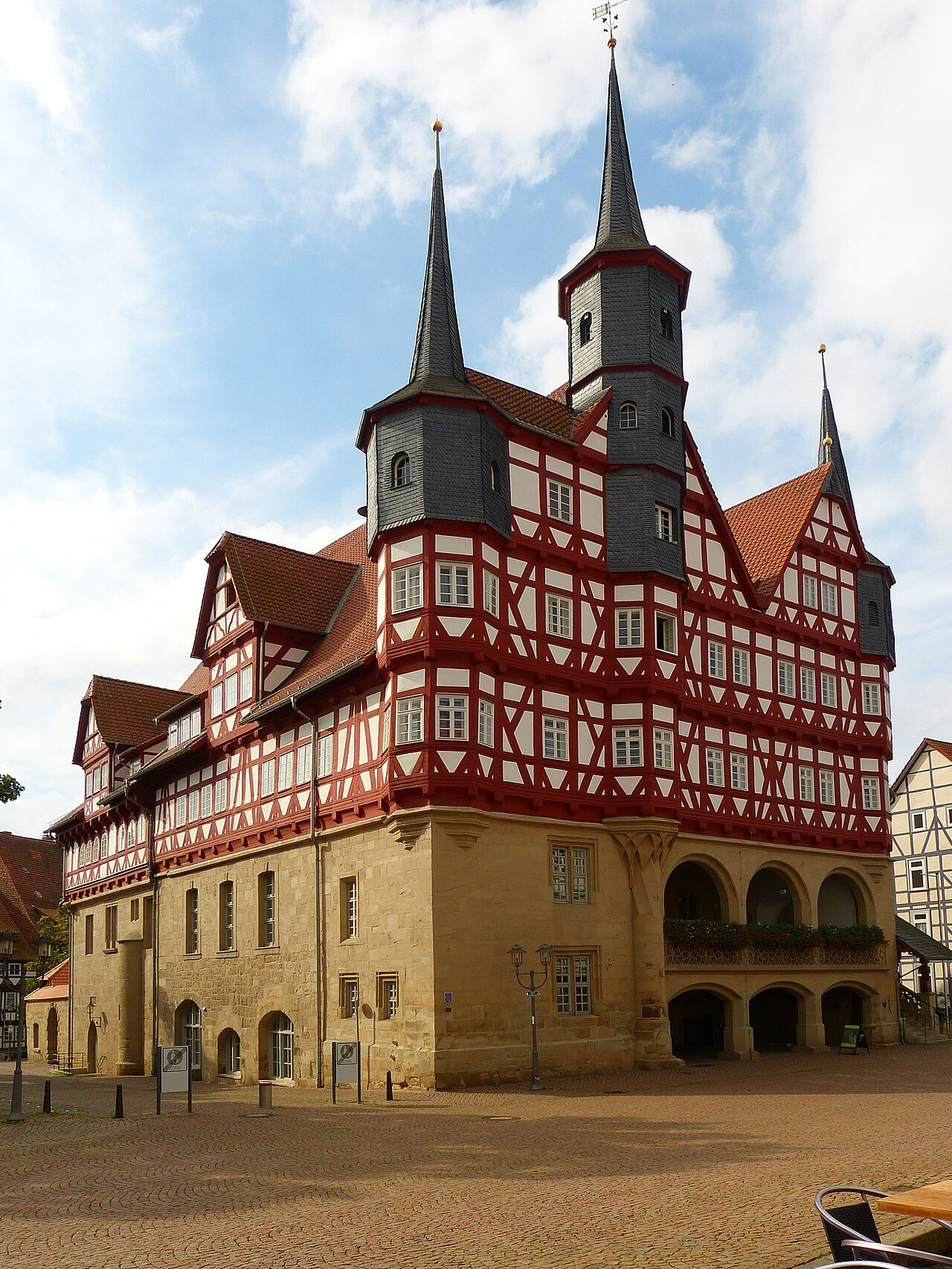
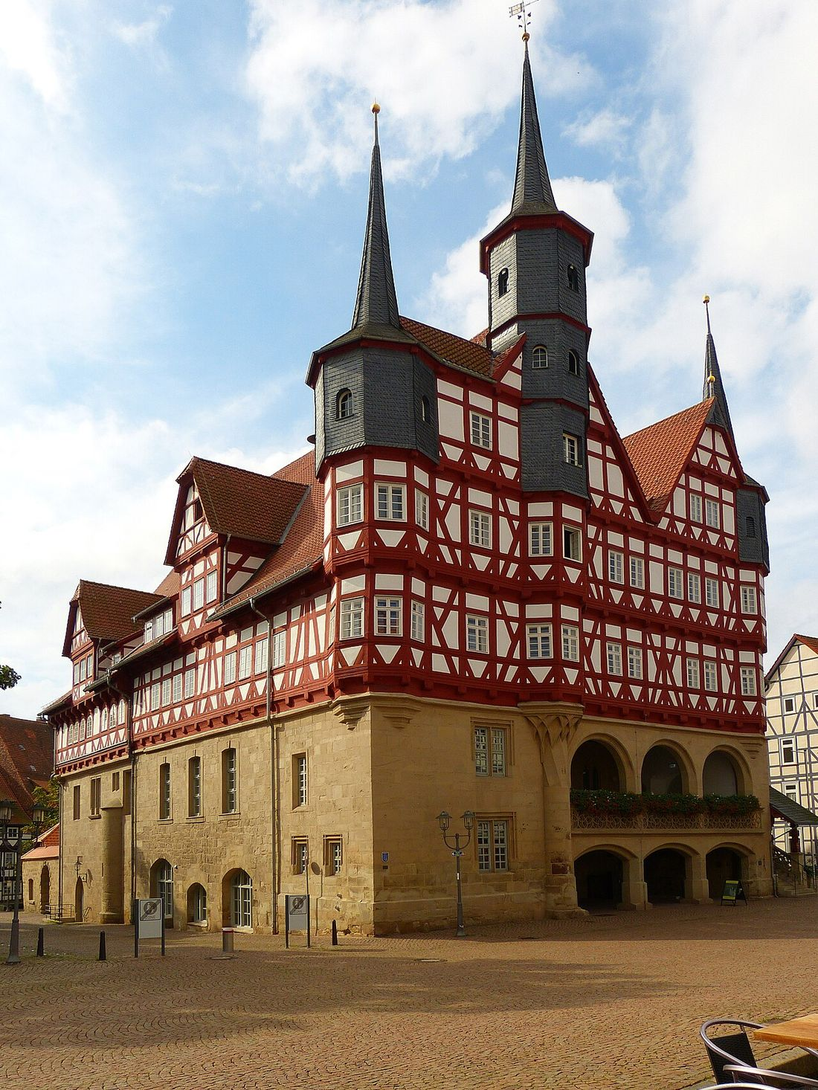
Performance: Rathaus-Foto komprimiert (624K → 341K, -45%) + width/height ergänzt
Mit Pillow neu kodiert (1100px Breite statt 1280px, Qualität 80,
progressive JPEG) — deckt weiterhin 2x-Retina-Darstellung bei der
tatsächlichen Anzeigebreite ab, visuell verifiziert keine sichtbaren
Artefakte. Bildquelle/Lizenz (Wikimedia, CC BY-SA 4.0, Gerd Eichmann)
unverändert, Bildnachweis in impressum.html bleibt gültig.

diff --git a/politik.html b/politik.html
@@ -52,7 +52,7 @@
   <!-- Warum ich kandidiere -->
   <section><div class="container">
     <div class="split split--reverse">
-      <div class="split__media split__media--tall"><img src="assets/img/duderstadt-rathaus.jpg" alt="Das historische Rathaus in Duderstadt" loading="lazy"></div>
+      <div class="split__media split__media--tall"><img src="assets/img/duderstadt-rathaus.jpg" alt="Das historische Rathaus in Duderstadt" width="1100" height="1466" loading="lazy"></div>
       <div class="split__body">
         <h2 style="margin-top:0">Warum ich kandidiere</h2>
         <p style="color:var(--ink-soft)">Ich möchte Verantwortung übernehmen – für die Menschen hier, für diese Stadt und für die, die nach uns kommen. Von 2020 bis 2024 war ich Ratsherr in Willich und sachkundiger Bürger im Kreistag Viersen, mit Schwerpunkt Rettungsdienst. 2024 bin ich bewusst ins Eichsfeld zurückgekehrt – in eine Region, die ich aktiv mitgestalten will.</p>
